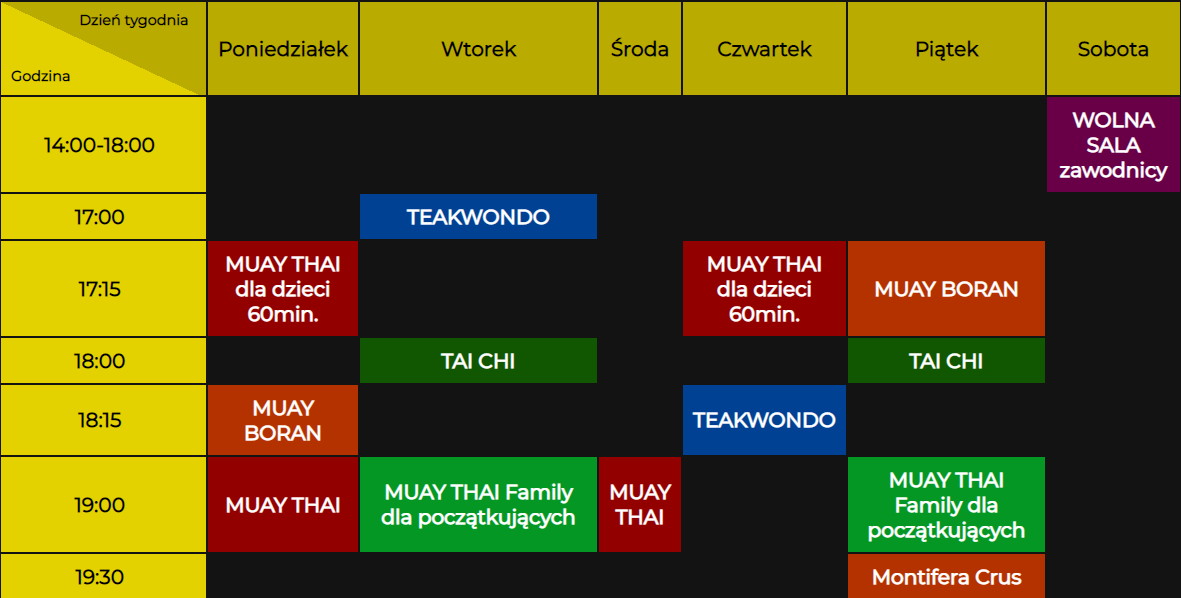
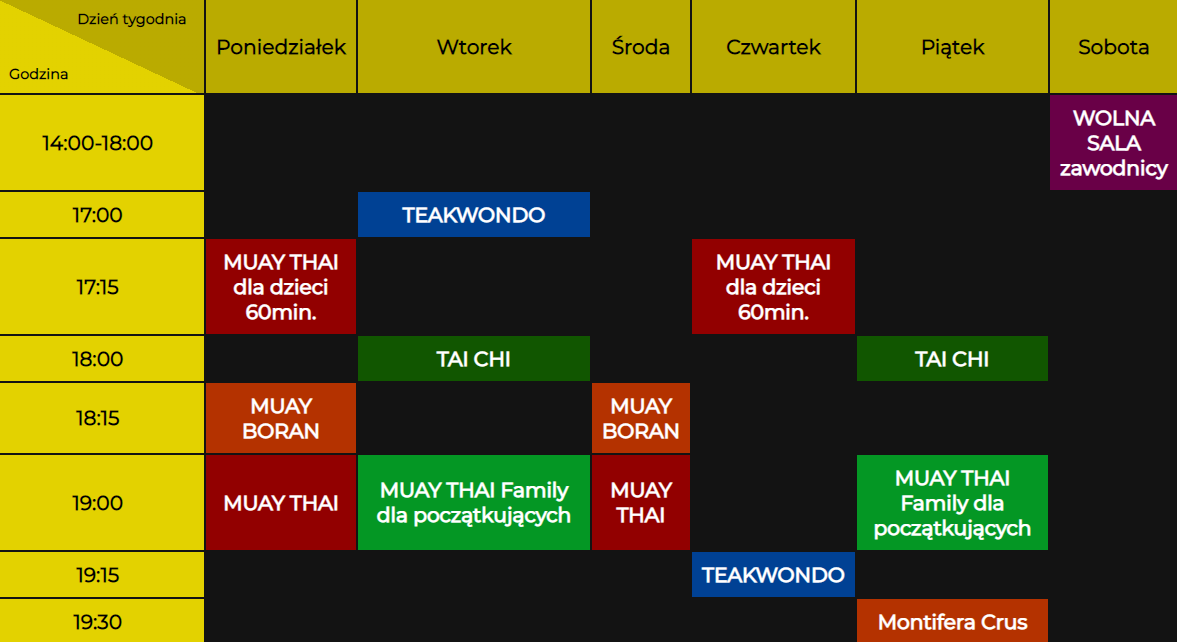
zaktualizowano grafik

diff --git a/schedule.html b/schedule.html
@@ -117,7 +117,7 @@
 					</tr>
 					<tr>
 						<td><div class="inner-hours">18:15</div></td>
-						<td></td>
+						<td class="muay-boran">MUAY BORAN</td>
 						<td></td>
 						<td class="muay-boran">MUAY BORAN</td>
 						<td></td>
